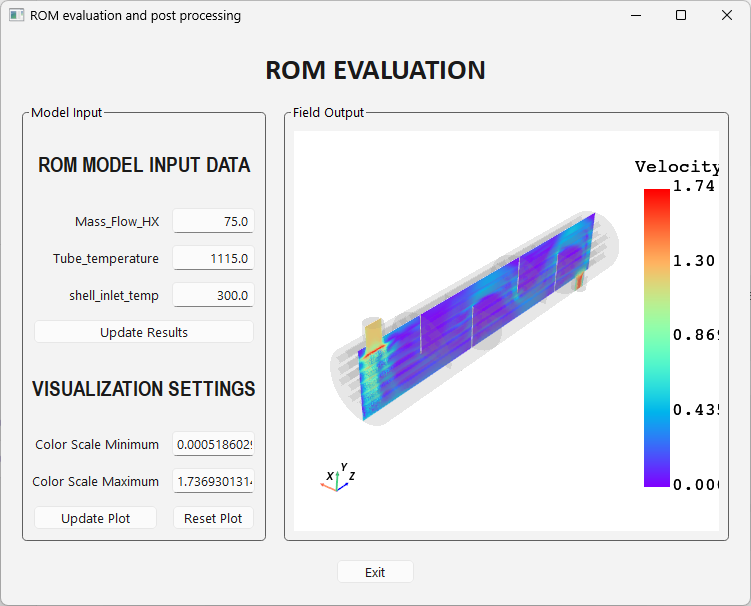
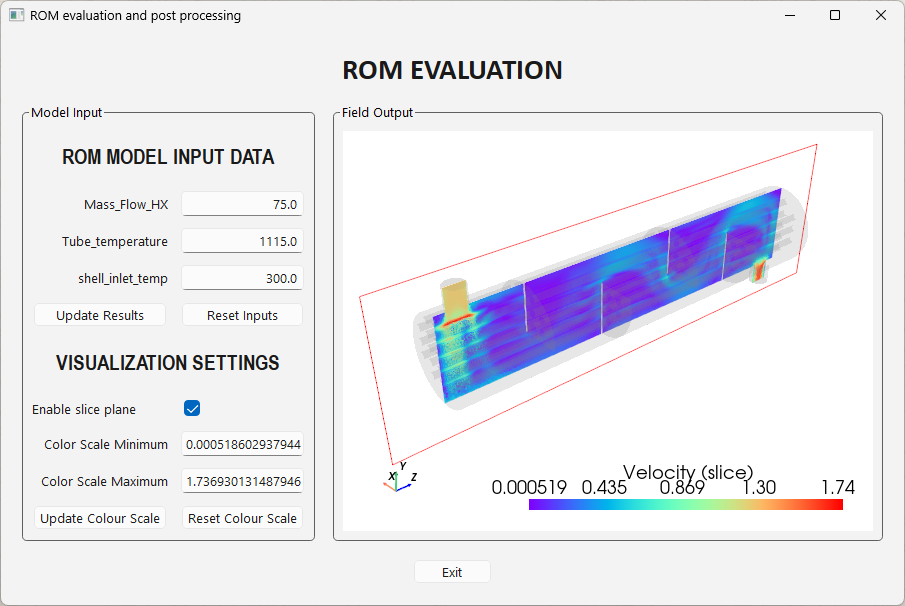
UPdate doc strings

diff --git a/examples/03-deployment_examples/00-DEPLOY_HX_GUI_app.py b/examples/03-deployment_examples/00-DEPLOY_HX_GUI_app.py
@@ -168,9 +168,9 @@ def convert_cfd_file_to_mesh(mesh_file: Path, named_selections: list[str]) -> No
 # 1. Adjust ROM input parameters in real-time
 # 2. Update ROM evaluation and visualize results immediately
 # 3. Control the color scale for field visualization
-# 4. View the ROM results as a 3D mesh with cross-sectional slice down the centerline of the heat exchanger.
+# 4. View the ROM results as a 3D mesh with toggleable cross-sectional slice down the centerline of the heat exchanger.
 #
-# The core PyTwin functionalities demonstrated in this application include:
+# The core PyTwin functionalities demonstrated in this application are included in the following methods:
 #
 # - :method:``_initialize_twin``: Loading a twin model and initializing evaluation with specified inputs
 # - :method:``_initialize_mesh``: Projecting TBROM results onto a target mesh for visualization
@@ -189,7 +189,14 @@ class MainWindow(QWidget):
         self._on_slice_toggled(self._slice)  # Set initial visibility based on slice mode
         self._reset_color_scale()  # Set initial color scale to data range
 
+    # The functions below use the PyTwin APIs in various ways to access and manipulate the twin model.
     def _initialize_twin(self) -> None:
+        """
+        Initialize the twin model.
+
+        Use PyTwin APIs to instantiate the twin model from the specified twin file and run the initialization step with
+        selected inputs.
+        """
         print("Loading model: {}".format(TWIN_FILE))
         self._twin_model = TwinModel(TWIN_FILE)
         self._set_default_inputs()
@@ -197,7 +204,12 @@ class MainWindow(QWidget):
         self._twin_model.initialize_evaluation(inputs=self._default_inputs)
 
     def _set_default_inputs(self):
-        """Set the default inputs for the twin model."""
+        """
+        Set the default inputs for the twin model.
+
+        Use the PyTwin API to retrieve the current twin inputs and then override some or all of them with the values
+        defined in DEFAULT_INPUTS.
+        """
         if self._twin_model.evaluation_is_initialized:
             print("WARNING: Evaluation already initialized, using current twin inputs as default values.")
         self._default_inputs = self._twin_model.inputs.copy()
@@ -206,7 +218,12 @@ class MainWindow(QWidget):
                 self._default_inputs[name] = value
 
     def _get_tbrom_metadata(self):
-        """Get metadata for TBROMs in the twin model."""
+        """
+        Get metadata for TBROMs in the twin model.
+
+        Use PyTwin APIs to get information about what TBROMs are available in the twin, their associated field output
+        names, and the dimensions of those outputs.
+        """
         if self._twin_model.tbrom_count == 0:
             raise ValueError("No TBROMs found in the twin model.")
         self._tbrom_rom_names = self._twin_model.tbrom_names
@@ -222,25 +239,29 @@ class MainWindow(QWidget):
         }
         self._current_field_output_dim = self._field_output_dims[self._current_rom_name]
 
-    def _initialize_plotter(self) -> None:
-        """Initialize the PyVistaQT plotter for 3D visualization."""
-        self._plotter = QtInteractor(parent=self)
-        self._plotter.clear()
-        self._plotter.add_axes()
-        self._plotter.view_zy()
-
     def _initialize_mesh(self) -> None:
-        """Initialize the mesh for visualization."""
+        """
+        Initialize the mesh for visualization.
+
+        Use PyTwin API to project TBROM results onto a target mesh.
+
+        The projected mesh is a PyVista UnstructuredGrid whose coordinates correspond to the target mesh and whose
+        scalar values correspond to the TBROM field output. The scalar values automatically update when the twin is
+        re-evaluated with new inputs.
+        """
 
         print("Loading mesh: {}".format(MESH_FILE))
         if not MESH_FILE.is_file():
             print("Mesh file not found. Converting CFD file to mesh...")
             convert_cfd_file_to_mesh(MESH_FILE, self._twin_model.get_named_selections(self._current_rom_name))
 
-        # Get the TBROM results projected onto the target mesh
+        # Get the TBROM results projected onto the target mesh. The interpolate argument is set to False since the CFD
+        # mesh is the same as that used to create the ROM.
         target_mesh = pv.read(MESH_FILE)
         print("Performing initial mesh projection...")
-        self._rom_on_target_mesh = self._twin_model.project_tbrom_on_mesh(self._current_rom_name, target_mesh, False)
+        self._rom_on_target_mesh = self._twin_model.project_tbrom_on_mesh(
+            self._current_rom_name, target_mesh, interpolate=False
+        )
 
         # Choose which component to plot based on the field output dimension.
         if self._current_field_output_dim == 1:
@@ -261,10 +282,6 @@ class MainWindow(QWidget):
         self._background_mesh_actor = self._plotter.add_mesh(
             target_mesh, color="grey", opacity=0.1, name="background_mesh", render=False
         )
-
-        # Ensure that vector quantities have magnitude activated for slicing.
-        if self._current_field_output_dim == 3:
-            self._rom_on_target_mesh.set_active_scalars(self._current_field_output_name + "-normed")
 
         # Add the slice on YZ plane
         self._slice_data_actor = self._plotter.add_mesh_slice(
@@ -301,13 +318,25 @@ class MainWindow(QWidget):
         self._plotter.reset_camera()
 
     def _run_evaluation(self) -> None:
-        """Run the twin evaluation with updated input parameters and refresh the visualization."""
+        """
+        Run the twin evaluation with input parameters from the GUIand refresh the visualization.
+
+        Assumes that TBROM is a static ROM, so uses the PyTwin `initialize_evaluation` method to re-run the evaluation
+        with new inputs.
+        """
         rom_inputs = {name: float(edit.text()) for name, edit in self._input_edits.items()}
         self._twin_model.initialize_evaluation(inputs=rom_inputs)
-        # PyTwin resets active scalars to field name after re-evaluation, so revert to chosen quantity.
-        if self._current_field_output_dim > 1:
-            self._full_mesh_actor.mapper.dataset.set_active_scalars(self._scalar_to_plot)
+        # PyTwin resets active scalars to TBROM field name after re-evaluation, so revert to chosen quantity.
+        self._full_mesh_actor.mapper.dataset.set_active_scalars(self._scalar_to_plot)
         self._plotter.update()
+
+    # The functions below use PyVista APIs to manage the 3D visualization of the TBROM results on the mesh.
+    def _initialize_plotter(self) -> None:
+        """Initialize the PyVistaQT plotter for 3D visualization."""
+        self._plotter = QtInteractor(parent=self)
+        self._plotter.clear()
+        self._plotter.add_axes()
+        self._plotter.view_zy()
 
     def _reset_inputs(self) -> None:
         """Reset the input parameters to their default values and re-evaulate model."""
@@ -346,6 +375,7 @@ class MainWindow(QWidget):
         self._active_scalar_bar = self._slice_scalar_bar if checked else self._full_mesh_scalar_bar
         self._plotter.update()
 
+    # The functions below use PySide6 APIs to build the GUI layout and manage user interactions.
     def _build_gui(self) -> None:
         """Build the GUI layout and components."""
         self.setWindowTitle("ROM evaluation and post processing")
@@ -514,20 +544,22 @@ def main() -> None:
 #
 # **Typical workflow:**
 #
-# 1. Adjust one or more ROM input parameters (e.g., ``Mass_Flow_HX``, ``Tube_temperature``, ``shell_inlet_temp``)
-# 2. Click **"Update Results"** to re-evaluate the ROM and update the visualization
-# 3. Optionally adjust the **"Color Scale Minimum"** and **"Color Scale Maximum"** and click **"Update Plot"** to better
-#    visualize the data range. Click **"Reset Plot"** to reset the color scale to the current data range.
-# 4. Use the 3D view to interact with the mesh (rotate, zoom, pan)
+# 1. Adjust one or more ROM input parameters (e.g., ``Mass_Flow_HX``, ``Tube_temperature``, ``shell_inlet_temp``).
+# 2. Click **"Update Results"** to re-evaluate the ROM and update the visualization. Click **"Reset Inputs"** to revert
+#    to initial inputs.
+# 3. Optionally adjust the **"Color Scale Minimum"** and **"Color Scale Maximum"** and click **"Update Colour Scale"**
+#    to better visualize the data range. Click **"Reset Colour Scale"** to reset the color scale to the current visible
+#    data range.
+# 4. Use the 3D view to interact with the mesh (rotate, zoom, pan).
 # 5. Click **"Exit"** to close the application
 #
 # **Potential extensions:**
 #
-# - Add support for additional TBROMs by extending the input parameter panel
-# - Export visualization results (screenshots or mesh data) to files
+# - Replace the mesh file with a lower resolution version for faster visualization.
+# - Add support for twins with multiple TBROMs.
+# - Add support for visualizing different components of vector fields.
 # - Add support for additional field visualization options (streamlines, contours, etc.)
-# - Add support for loading different twin and mesh files at runtime
-
+# - Add support for loading different twin and mesh files at runtime.
 
 if __name__ == "__main__":
     main()